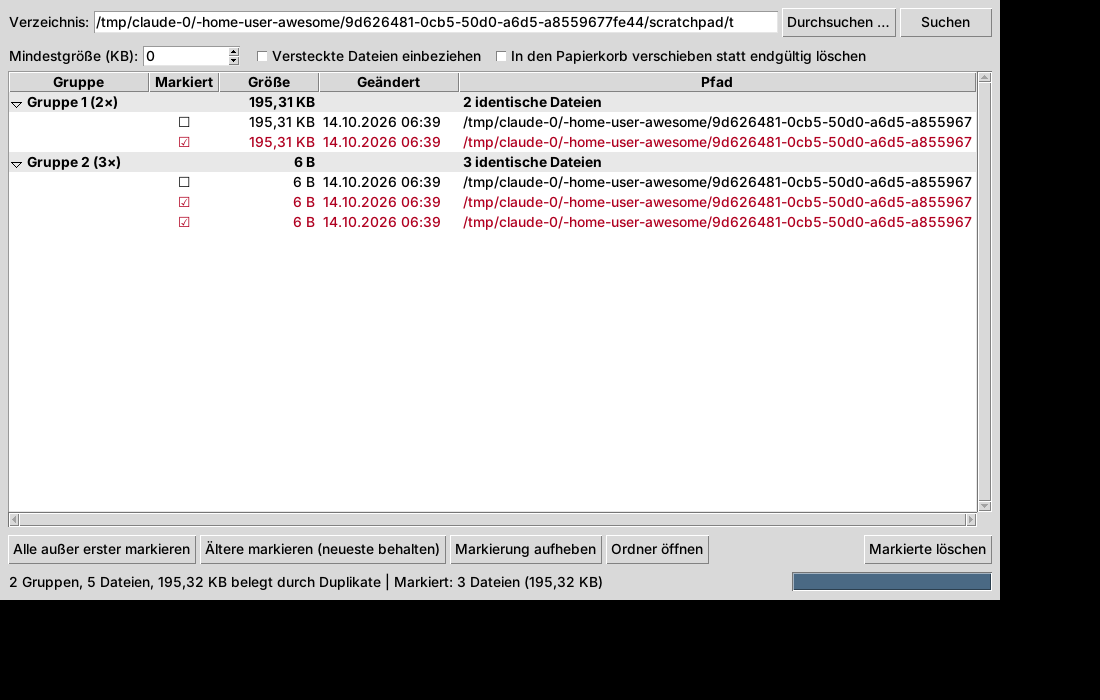
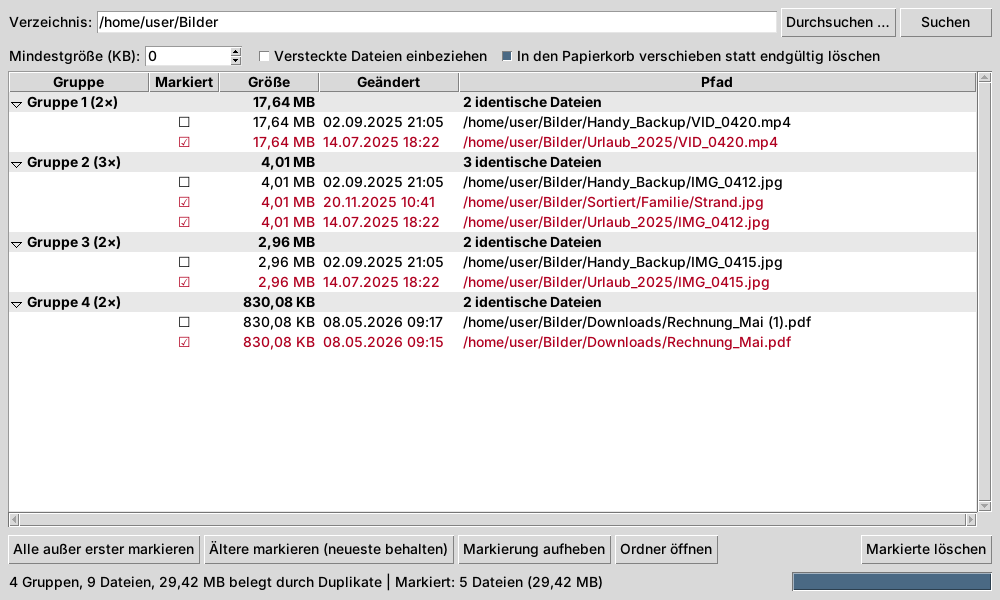
Fix layout on small windows and refresh screenshot
Pack the button and status bars before the result list so they stay
visible when the window is resized, keep the delete button visible on
narrow windows, raise the minimum width so all buttons fit, and replace
the screenshot with one that uses a neutral example folder.

Claude-Session: https://claude.ai/code/session_01FNn2erpA2SgHCdniXeM86D

diff --git a/duplicate_finder.py b/duplicate_finder.py
@@ -136,7 +136,7 @@ class DuplicateFinderApp:
         self.master = master
         master.title("Doppelte Dateien finden")
         master.geometry("1000x600")
-        master.minsize(700, 400)
+        master.minsize(920, 400)
 
         self.directory = tk.StringVar(value=os.path.expanduser("~"))
         self.min_size_kb = tk.StringVar(value="0")
@@ -172,7 +172,6 @@ class DuplicateFinderApp:
                         variable=self.use_trash).pack(side="left")
 
         tree_frame = ttk.Frame(self.master, padding=(8, 0))
-        tree_frame.pack(fill="both", expand=True)
         columns = ("mark", "size", "modified", "path")
         self.tree = ttk.Treeview(tree_frame, columns=columns, show="tree headings", selectmode="extended")
         self.tree.heading("#0", text="Gruppe")
@@ -203,19 +202,23 @@ class DuplicateFinderApp:
         self.tree.bind("<Delete>", lambda e: self.delete_checked())
 
         actions = ttk.Frame(self.master, padding=8)
-        actions.pack(fill="x")
+        # Zuerst packen, damit der Löschen-Knopf auch bei schmalem Fenster sichtbar bleibt
+        self.delete_button = ttk.Button(actions, text="Markierte löschen", command=self.delete_checked)
+        self.delete_button.pack(side="right")
         ttk.Button(actions, text="Alle außer erster markieren", command=self.mark_all_but_first).pack(side="left")
         ttk.Button(actions, text="Ältere markieren (neueste behalten)", command=self.mark_older).pack(side="left", padx=4)
         ttk.Button(actions, text="Markierung aufheben", command=self.unmark_all).pack(side="left")
         ttk.Button(actions, text="Ordner öffnen", command=self.open_folder).pack(side="left", padx=4)
-        self.delete_button = ttk.Button(actions, text="Markierte löschen", command=self.delete_checked)
-        self.delete_button.pack(side="right")
 
         bottom = ttk.Frame(self.master, padding=(8, 0, 8, 8))
-        bottom.pack(fill="x")
         self.progress = ttk.Progressbar(bottom, mode="determinate", length=200)
         self.progress.pack(side="right")
         ttk.Label(bottom, textvariable=self.status, anchor="w").pack(side="left", fill="x", expand=True)
+
+        # Untere Leisten zuerst packen, damit sie bei kleinem Fenster sichtbar bleiben
+        bottom.pack(side="bottom", fill="x")
+        actions.pack(side="bottom", fill="x")
+        tree_frame.pack(fill="both", expand=True)
 
     def choose_directory(self):
         path = filedialog.askdirectory(initialdir=self.directory.get() or os.path.expanduser("~"),
